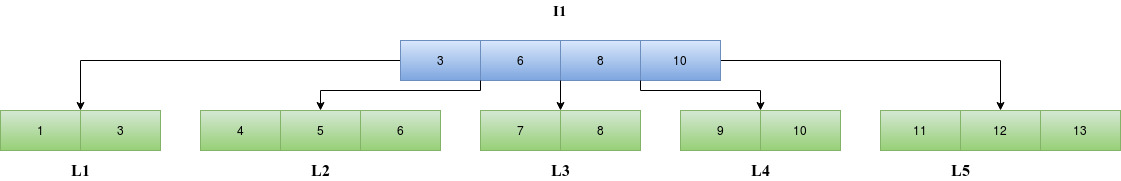
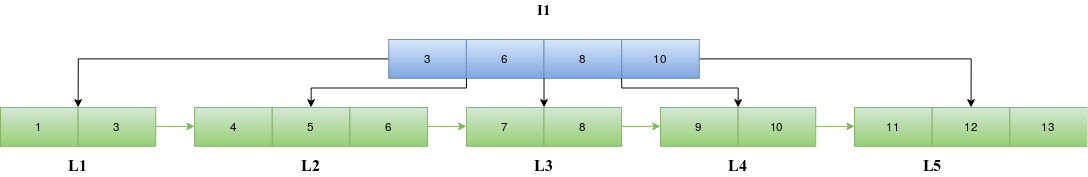
updated indexing.html and images

diff --git a/design/indexing.html b/design/indexing.html
@@ -98,11 +98,11 @@
 
                                 On creating a database of your own, it is essential that we have access to the data stored without much time delay. Disk access is a high-latency operation. Therefore, as the size of relation increases, searching records that satisfy certain conditions by accessing every record in the disk blocks can adversely affect the performance. This necessitates indexing.
                                 </p>
-                                <p>Creating an index enables us to access the required entry with very few disk accesses. Indices are access structures that are used to speed up the retrieval of records in response to certain search conditions. The index structures are additional files on disk that provide secondary access paths, which provide alternative ways to access the records without affecting the physical placement of records. An index in a database is very much like the index in a book. And, just as a book's index points to locations within the book, a database's index points to records within the disk. The database organizes the indexes such that these pointer values can be found extremely fast. And, once the database has located the desired set of pointer values, it can then turn around and quickly read the full record. Ultimately, a database index is a means to locate and read table data as quickly as possible.</p>
+                                <p>Creating an index enables us to access the required entry with very few disk accesses. Indices are access structures that are used to speed up the retrieval of records in response to certain search conditions. The index structures are additional files on disk that provide secondary access paths, which provide alternative ways to access the records without affecting the physical placement of records. An <b>index</b> in a database is very much like the index in a book. And, just as a book's index points to locations within the book, a database's index points to records within the disk. The database organizes the indexes such that these pointer values can be found extremely fast. And, once the database has located the desired set of pointer values, it can then turn around and quickly read the full record. Ultimately, a database index is a means to locate and read table data as quickly as possible.</p>
                                 <p>So, an index is a collection of attribute values and their corresponding record pointers.
-                                When designing an index, the structure of the index determines how fast the index can be accessed and what kind of queries can leverage it.
+                                When designing an index, the <b>structure of the index</b> determines how fast the index can be accessed and what kind of queries can leverage it.
                             
-                                Perhaps one of the most common types of index structures is the B+ Tree. It is a self-balancing, sorted variation on the binary tree structure that stores the index values in a relatively shallow but wide shape. The sorted nature of the B+ Tree lends itself well to range-based scanning and sequential access as well as equality-based access. NITCbase uses B+ Tree for indexing records. </p>
+                                Perhaps one of the most common types of index structures is the <b>B+ Tree</b>. It is a self-balancing, sorted variation on the binary tree structure that stores the index values in a relatively shallow but wide shape. The sorted nature of the B+ Tree lends itself well to range-based scanning and sequential access as well as equality-based access. NITCbase uses B+ Tree for indexing records. </p>
                                 <div class="card">
                                 <div class="card-header">
                                 <!--<div class="card-body">-->
@@ -127,7 +127,7 @@
                                 \#Record Blocks = \left \lceil \frac {12000} {12} \right \rceil = 1000
                                        
                                 \]</p></b>
-                                <p>This implies that the number of disk accesses required to process a query in the absence of an index is <b>1000</b>.<br>Suppose, we have a query based on an indexed attribute satisfying a certain condition. In NITCBase, the maximum number of entries in an Internal index block and Leaf index block are 100 and 63 respectively. Similarly, the minimum number of entries are 50 and 32 respectively. We know that all the attribute values appear in any of the leaf blocks. So the maximum number of Leaf index blocks is:</p>
+                                <p>This implies that the number of disk accesses required to process a query in the absence of an index is <b>1000</b>.<br>Suppose, we have a query based on an indexed attribute satisfying a certain condition. In NITCBase, the maximum number of entries in an Internal index block and Leaf index block are 100 and 63 respectively. Similarly, the minimum number of entries are 50 and 32 respectively(Why?). We know that all the attribute values appear in any of the leaf blocks. So the maximum number of Leaf index blocks is:</p>
 
                                 <b><p> \[ 
                                 
@@ -216,13 +216,13 @@
                                     <div id="collapse1" class="collapse">
                                         <div class="card-body"> 
                                         <center><img class="img-fluid" src="../img/indexing/1.png"></center>
-                                        <center><img class="img-fluid" src="../img/indexing/01.JPG"></center>  
+
 When 1 is to be inserted , foremost the attribute catalog entry is obtained from the cache layer. The root block number of the attribute is checked and since it is not -1 , we proceed further. We obtain a free buffer for the block containing the entry. The first entry will always be a leaf entry. <br>
 
 A temporary array of indices containing the entry is created. The purpose of the array is to ensure all the entries are in a sorted order. Since the size of the array is less than three ,we rewrite the entries of the leaf index block in the sorted order from the array. The header of the block will be updated. <br>
 
 Similarly 3 and 8 are inserted. The pblock value remains -1 throughout these insertions as there is no parent block introduced in the B+ tree yet.                                         
-                                        </div>
+                                        <center><img class="img-fluid" src="../img/indexing/01.JPG"></center>                                         </div>
                                     </div>
                                 </div>
                             
@@ -235,7 +235,7 @@ Similarly 3 and 8 are inserted. The pblock value remains -1 throughout these ins
                                     <div id="collapse2" class="collapse">
                                         <div class="card-body">
                                         <center><img class="img-fluid" src="../img/indexing/2.png"></center>
-                                        <center><img class="img-fluid" src="../img/indexing/02.JPG"></center> 
+
 
 
 
@@ -248,6 +248,9 @@ Similarly 3 and 8 are inserted. The pblock value remains -1 throughout these ins
 <p>The left and right child of this new internal index block is set as L1 and L2 respectively. The parent block value in the header of these child blocks are updated as I1. </p>
 
 The attribute catalog will be updated with the changes including the new root block number.
+                                        <center><img class="img-fluid" src="../img/indexing/attrcat3.png"></center> 
+                                        <br>
+                                        <center><img class="img-fluid" src="../img/indexing/02.JPG"></center> 
                                                                                  
                                         </div>
                                     </div>
@@ -261,9 +264,9 @@ The attribute catalog will be updated with the changes including the new root bl
                                     <div id="collapse3" class="collapse">
                                         <div class="card-body">       
                                         <center><img class="img-fluid" src="../img/indexing/3.png"></center>
-                                        <center><img class="img-fluid" src="../img/indexing/03.JPG"></center> 
 
 When 6 is to be inserted ,we traverse down the tree starting from the root block I1 to find the appropriate leaf index block. Since 6 is greater the 3 , we traverse down to the right child of I1. As seen previously , the entries are sorted and since the maximum number of entries in a leaf block is not violated , the entries including the new entry 6 is written back into the block L2 and the number of entries in the header of L2 is updated. 
+                                        <center><img class="img-fluid" src="../img/indexing/03.JPG"></center> 
                                         </div>
                                     </div>
                                 </div>
@@ -276,12 +279,13 @@ When 6 is to be inserted ,we traverse down the tree starting from the root block
                                     <div id="collapse4" class="collapse">
                                         <div class="card-body">
                                             <center><img class="img-fluid" src="../img/indexing/4.jpg"></center>
-                                            <center><img class="img-fluid" src="../img/indexing/04.JPG"></center>
+
 <p>When 4 is to be inserted ,we traverse down the tree starting from the root block I1 to find the appropriate leaf index block. Since 4 is greater the 3 , we traverse down to the right child of I1. The entries are sorted however in this case the number of entries in the leaf block will become greater than three if the entry 4 is to be included in L2. Hence a new leaf block L3 is introduced. The first half of the sorted entries in the array (4,6) are set in L2 and the rest (7,8) are set in L3. The LBlock and RBlock values of the headers of the blocks are updated to maintain the linked list. </p>
 
 <p>Since L2 already has a parent block I1 and the number of entries in the parent block is less than four , we take the last value in the current L2 and the current entry in I1 into a temporary array for the purpose of sorting. The sorted entries are then written back into I1 and the number of entries in I1 is incremented. The left and right child of the new entry 6 in the parent block is set as L2 and L3 respectively. </p>
 
 <p>The parent block of L3 is set as I1.</p>
+                                            <center><img class="img-fluid" src="../img/indexing/04.JPG"></center>
                                             
                                         </div>
                                     </div>
@@ -295,9 +299,10 @@ When 6 is to be inserted ,we traverse down the tree starting from the root block
                                     <div id="collapse5" class="collapse">
                                         <div class="card-body">
                                             <center><img class="img-fluid" src="../img/indexing/5.jpg"></center>
-                                            <center><img class="img-fluid" src="../img/indexing/05.JPG"></center>
+
 
 When 11 is to be inserted ,we traverse down the tree starting from the root block I1 to find the appropriate leaf index block. Since 11 is greater than 6 , we traverse down to the right child of 6 in I1. The entries in L3 along with the new entry 11 are sorted in a temporary array and since the maximum number of entries in a leaf block is not violated , the entries are written back into the block L3 and the number of entries in the header of L3 is updated.
+                                            <center><img class="img-fluid" src="../img/indexing/05.JPG"></center>
                                         </div>
                                     </div>
                                 </div>
@@ -310,13 +315,14 @@ When 11 is to be inserted ,we traverse down the tree starting from the root bloc
                                     <div id="collapse6" class="collapse">
                                         <div class="card-body">
                                             <center><img class="img-fluid" src="../img/indexing/6.jpg"></center>
-                                            <center><img class="img-fluid" src="../img/indexing/06.JPG"></center>
+
 
 <p>When 13 is to be inserted ,we traverse down the tree starting from the root block I1 to find the appropriate leaf index block. Since 13 is greater the 6 , we traverse down to the right child of 6 in I1. The entries are sorted however in this case the number of entries in the leaf block L3 will become greater than three if the entry 13 is to be included. Hence a new leaf block L4 is introduced. The first half of the sorted entries in the array (7,8) are set in the block L3 and the rest (11,13) are set in L4. The LBlock and RBlock values of the headers of the blocks are updated to maintain the linked list. </p>
 
 <p>Since L3 already has a parent block I1 and the number of entries in the parent block is less than four , we take the last value in the current L3 and the current entries in I1 into a temporary array for the purpose of sorting. The sorted entries are then written back into I1 and the number of entries in I1 is incremented. The left and right child of the entry 8 in the parent block are set as L3 and L4 respectively.</p>
 
 <p>The parent block of L4 is set as I1.</p>
+                                            <center><img class="img-fluid" src="../img/indexing/06.JPG"></center>
                                         </div>
                                     </div>
                                 </div>
@@ -329,10 +335,11 @@ When 11 is to be inserted ,we traverse down the tree starting from the root bloc
                                     <div id="collapse7" class="collapse">
                                         <div class="card-body">
                                             <center><img class="img-fluid" src="../img/indexing/7.jpg"></center>
-                                            <center><img class="img-fluid" src="../img/indexing/07.JPG"></center>
+
 
 
 When 10 is to be inserted ,we traverse down the tree starting from the root block I1 to find the appropriate leaf index block. Since 10 is greater than 8 , we traverse down to the right child of 8 in I1. The entries in L4 along with the new entry 10 are sorted in a temporary array and since the maximum number of entries in a leaf block is not violated , the entries are written back into the block L4 and the number of entries in the header of L4 is updated.
+                                            <center><img class="img-fluid" src="../img/indexing/07.JPG"></center>
                                         </div>
                                     </div>
                                 </div>
@@ -345,13 +352,14 @@ When 10 is to be inserted ,we traverse down the tree starting from the root bloc
                                     <div id="collapse8" class="collapse">
                                         <div class="card-body">
                                             <center><img class="img-fluid" src="../img/indexing/8.jpg"></center>
-                                            <center><img class="img-fluid" src="../img/indexing/08.JPG"></center>
+
 
 <p>When 9 is to be inserted ,we traverse down the tree starting from the root block I1 to find the appropriate leaf index block. Since 9 is greater the 8 , we traverse down to the right child of 8 in I1 which is L4. The entries are sorted however in this case the number of entries in the leaf block L4 will become greater than three if the entry 9 is to be included. Hence a new leaf block L5 is introduced. The first half of the sorted entries in the array (9,10) are set in the block L4 and the rest (11,13) are set in L5. The LBlock and RBlock values of the headers of the blocks are updated to maintain the linked list. </p>
 
 <p>Since L4 already had a parent block I1 and the number of entries in the parent block is less than four , we take the last value in the current L4 and the current entries in I1 into a temporary array for the purpose of sorting. The sorted entries are then written back into I1 and the number of entries in I1 is incremented. The left and right child of the entry 10 in the parent block are set as L4 and L5 respectively.</p>
 
 <p>The parent block of L5 is set as I1.</p>
+                                            <center><img class="img-fluid" src="../img/indexing/08.JPG"></center>
                                         </div>
                                     </div>
                                 </div>
@@ -364,9 +372,10 @@ When 10 is to be inserted ,we traverse down the tree starting from the root bloc
                                     <div id="collapse9" class="collapse">
                                         <div class="card-body">
                                             <center><img class="img-fluid" src="../img/indexing/9.jpg"></center>
-                                            <center><img class="img-fluid" src="../img/indexing/09.JPG"></center>
+
 
 When 5 is to be inserted ,we traverse down the tree starting from the root block I1 to find the appropriate leaf index block. Since 5 is greater than 3 but less than 6 , we traverse down to the left child of 6 in I1 which is L2. The entries in L2 along with the new entry 5 are sorted in a temporary array and since the maximum number of entries in a leaf block is not violated , the entries are written back into the block L2 and the number of entries in the header of L2 is updated.
+                                            <center><img class="img-fluid" src="../img/indexing/09.JPG"></center>
                                         </div>
                                     </div>
                                 </div>
@@ -379,22 +388,22 @@ When 5 is to be inserted ,we traverse down the tree starting from the root block
                                     <div id="collapse10" class="collapse">
                                         <div class="card-body">
                                          <center><img class="img-fluid" src="../img/indexing/10.jpg"></center>
-                                         <center><img class="img-fluid" src="../img/indexing/010.JPG"></center>
+
 
 When 12 is to be inserted ,we traverse down the tree starting from the root block I1 to find the appropriate leaf index block. Since 12 is greater than 10  , we traverse down to the right child of 10 in I1 which is L5. The entries in L5 along with the new entry 12 are sorted in a temporary array and since the maximum number of entries in a leaf block is not violated , the entries are written back into the block L5 and the number of entries value in the header of L5 is updated.
+                                         <center><img class="img-fluid" src="../img/indexing/010.JPG"></center>
                                         </div>
                                     </div>
                                 </div>
                                 <div class="card">
                                     <div class="card-header">
                                         <a data-toggle="collapse" href="#collapse11">
-                                            <b>Insert 14 and then 2</b> 
+                                            <b>Insert 14</b> 
                                         </a>
                                     </div>
                                     <div id="collapse11" class="collapse">
                                         <div class="card-body">
-                                            <center><img class="img-fluid" src="../img/indexing/12.jpg"></center>
-                                            <center><img class="img-fluid" src="../img/indexing/011.JPG"></center>
+                                            <center><img class="img-fluid" src="../img/indexing/11.jpg"></center>
 
 When 14 is to be inserted ,we traverse down the tree starting from the root block I1 to find the appropriate leaf index block. Since 14 is greater the 10 , we traverse down to the right child of 10 in I1 which is L5. The entries are sorted however in this case the number of entries in the leaf block L5 will become greater than three if the entry 14 is to be included. Hence a new leaf block L6 is introduced. The first half of the sorted entries in the array (11,12) are set in the block L5 and the rest (13,14) are set in L6. The LBlock and RBlock values of the headers of the blocks are updated to maintain the linked list. </p>
 
@@ -403,13 +412,33 @@ When 14 is to be inserted ,we traverse down the tree starting from the root bloc
 <p>Since the previous root has now been split , a new internal index block I3 is introduced. The middle value (8) of the previous root which had been stored in a temporary variable is now inserted into I3. The left and right child of 8 in I3 is set as I1 and I2 respectively. The number of entries in the new internal index block is incremented to 1. The parent block of I1 and I2 is set to I3.</p>
 
 <p>The root block number of this B+ Tree in the attribute catalog is updated to the new root block number.</p>
+                                        <center><img class="img-fluid" src="../img/indexing/attrcat4.png"></center>
+                                        <br> 
 
-<p> The entry 2 is inserted in the similar manner as demonstrated in the previous steps.</p>
-
+                                        <center><img class="img-fluid" src="../img/indexing/011.JPG"></center>
 
                                         </div>
                                     </div>
                                 </div>
+
+                                                                <div class="card">
+                                    <div class="card-header">
+                                        <a data-toggle="collapse" href="#collapse12">
+                                            <b>Insert 2</b> 
+                                        </a>
+                                    </div>
+                                    <div id="collapse12" class="collapse">
+                                        <div class="card-body">
+                                            <center><img class="img-fluid" src="../img/indexing/12.jpg"></center>
+
+
+<p> The entry 2 is inserted in the similar manner as demonstrated in the previous steps.</p>
+                                            <center><img class="img-fluid" src="../img/indexing/012.JPG"></center>
+
+                                        </div>
+                                    </div>
+                                </div>
+
                             </div>
 
                             
